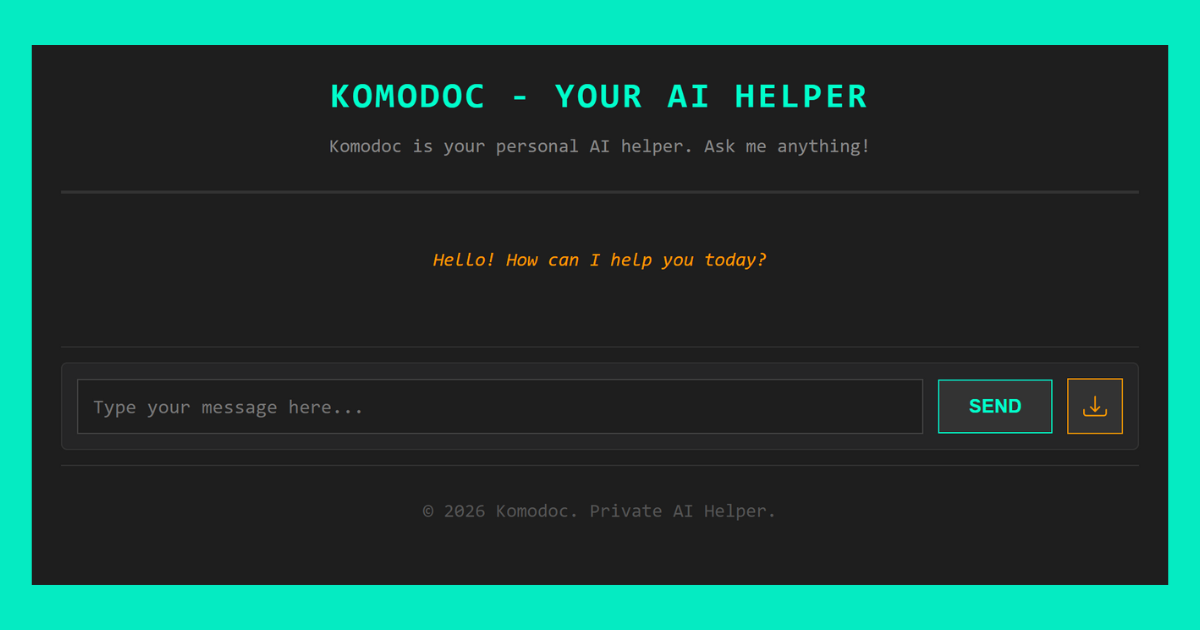
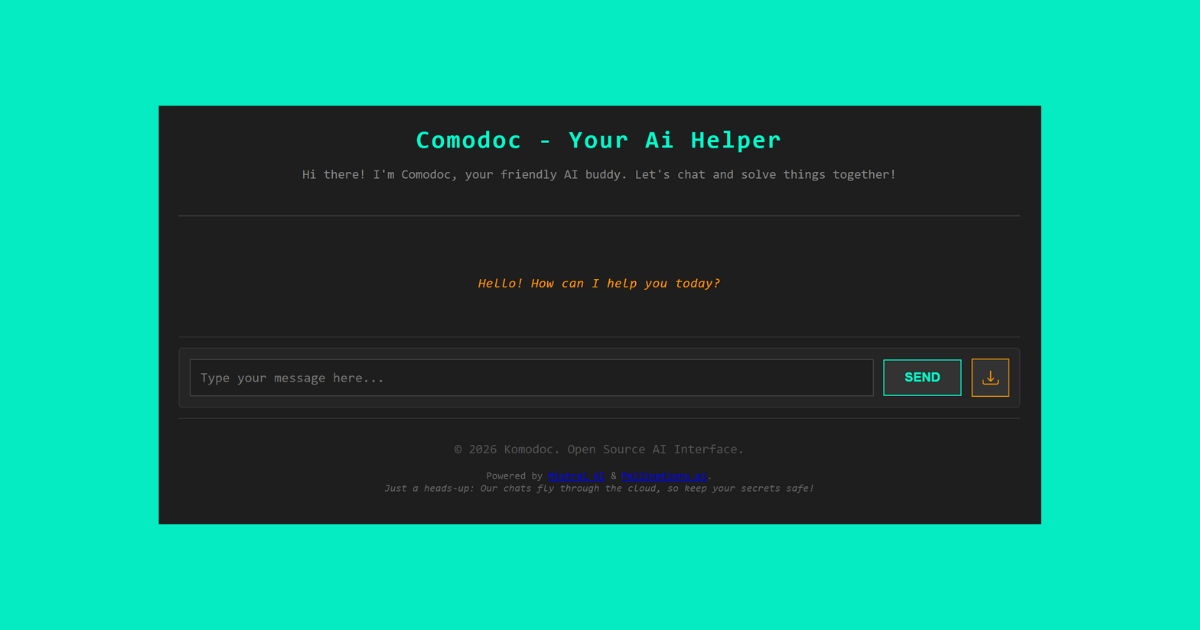
Add files via upload

diff --git a/server.js b/server.js
@@ -2,7 +2,8 @@ const http = require('http');
 const fs = require('fs');
 const path = require('path');
 
-const PORT = 3001;
+// Use process.env.PORT for deployment (Heroku/Render/Railway) or fallback to 2020 locally
+const PORT = process.env.PORT || 2020;
 
 const server = http.createServer(async (req, res) => {
     console.log(`${req.method} ${req.url}`);
@@ -48,6 +49,14 @@ const server = http.createServer(async (req, res) => {
                 res.end(content);
             }
         });
+    } else if (req.url === '/favicon.svg') {
+        const svgContent = `
+<svg xmlns="http://www.w3.org/2000/svg" viewBox="0 0 100 100">
+  <circle cx="50" cy="50" r="45" fill="#1e1e1e" stroke="#00ffcc" stroke-width="5"/>
+  <text x="50" y="65" font-family="Arial, sans-serif" font-size="60" font-weight="bold" fill="#00ffcc" text-anchor="middle">C</text>
+</svg>`;
+        res.writeHead(200, { 'Content-Type': 'image/svg+xml' });
+        res.end(svgContent);
     } else if (req.url === '/chat' && req.method === 'POST') {
         let body = '';
         req.on('data', chunk => {
@@ -55,7 +64,42 @@ const server = http.createServer(async (req, res) => {
         });
         req.on('end', async () => {
             try {
-                const { message } = JSON.parse(body);
+                let { message } = JSON.parse(body);
+
+                // --- ADVANCED PII SAFETY FILTER (COMPREHENSIVE) ---
+                const originalMessage = message;
+
+                // A. Direct Identifiers
+                // 1. Email Addresses
+                message = message.replace(/\b[A-Za-z0-9._%+-]+@[A-Za-z0-9.-]+\.[A-Z|a-z]{2,}\b/g, '[EMAIL_REDACTED]');
+                
+                // 2. Phone Numbers (Indonesian & International formats)
+                // Covers: +62, 08xx, (xxx) xxx-xxxx
+                message = message.replace(/\b(\+62|08|62)\d{8,15}\b/g, '[PHONE_REDACTED]');
+                message = message.replace(/\b\d{3}[- .]?\d{3}[- .]?\d{4}\b/g, '[PHONE_REDACTED]');
+
+                // 3. Identification Numbers (NIK/KTP, Passport, Driver's License - Generic 16 digits)
+                message = message.replace(/\b\d{16}\b/g, '[ID_NUM_REDACTED]');
+                
+                // B. Sensitive PII (Financial)
+                // 1. Credit Card Numbers (Visa, Mastercard, etc. - 13-19 digits, often grouped)
+                message = message.replace(/\b(?:\d{4}[- ]?){3}\d{4}\b/g, '[CREDIT_CARD_REDACTED]');
+
+                // C. Indirect Identifiers (Dates & Locations)
+                // 1. Dates of Birth (Formats: DD-MM-YYYY, YYYY-MM-DD, DD/MM/YYYY)
+                // Simple regex to catch common date patterns
+                message = message.replace(/\b\d{1,2}[-/]\d{1,2}[-/]\d{4}\b/g, '[DATE_REDACTED]');
+                message = message.replace(/\b\d{4}[-/]\d{1,2}[-/]\d{1,2}\b/g, '[DATE_REDACTED]');
+
+                // 2. ZIP Codes (5 digits) - Context aware is hard, but we can catch 5 digit isolated numbers
+                // NOTE: This might be too aggressive for general numbers, so we limit to specific patterns if needed.
+                // For now, we'll assume 5 digit numbers at the end of a string or after "Zip" might be sensitive.
+                message = message.replace(/\b(?:Zip|Code|Pos)\s*:?\s*(\d{5})\b/gi, 'ZIP [REDACTED]');
+
+                if (message !== originalMessage) {
+                    console.log('🛡 Security: PII data redacted from user message.');
+                }
+                // ---------------------------------------------------
                 
                 // Call Pollinations AI with Mistral
                 const response = await fetch('https://text.pollinations.ai/', {

diff --git a/index.html b/index.html
@@ -5,16 +5,17 @@
         <meta property="og:description" content="Your personal AI helper. Ask me anything!">
         <meta property="og:type" content="website">
         <meta property="og:url" content="https://github.com/deopsdev/comodoc.ai">
-        <meta property="og:image" content="ogimage">
+        <meta property="og:image" content="ogimage.png">
         <meta charset="UTF-8">
         <meta name="viewport" content="width=device-width, initial-scale=1.0">
         <title>Komodoc - AI Helper</title>
+        <link rel="icon" type="image/svg+xml" href="favicon.svg">
         <link rel="stylesheet" href="style.css">
     </head>
     <body>
-        <header>
-        <h1>Komodoc - Your AI Helper</h1>
-        <p>Komodoc is your personal AI helper. Ask me anything!</p>
+        <header style="text-align: center;">
+        <h1>Comodoc - Your Ai Helper</h1>
+        <p>Hi there! I'm Comodoc, your friendly AI buddy. Let's chat and solve things together!</p>
         </header>
             <div id="chat-container">
                 <div id="chat-messages">
@@ -32,8 +33,13 @@
                     </button>
                 </div>
             </div>
-            <footer>
-                <p>&copy; 2026 Komodoc. Private AI Helper.</p>
+            <footer style="text-align: center;">
+                <p>&copy; 2026 Komodoc. Open Source AI Interface.</p>
+                <div style="font-size: 0.8em; color: #666; margin-top: 5px;">
+                    Powered by <a href="https://mistral.ai" target="_blank">Mistral AI</a> & <a href="https://pollinations.ai" target="_blank">Pollinations.ai</a>.
+                    <br>
+                    <em>Just a heads-up: Our chats fly through the cloud, so keep your secrets safe!</em>
+                </div>
             </footer>
         <script src="script.js"></script>
     </body>

diff --git a/style.css b/style.css
@@ -20,13 +20,12 @@ body {
 header {
     text-align: center;
     border-bottom: 2px solid #333; /* Industrial divider */
-    padding-bottom: 10px;
-    margin-bottom: 10px;
+    padding-bottom: 20px;
+    margin-bottom: 20px;
 }
 
 h1 {
     color: #00ffcc; /* Cyan indicator light */
-    text-transform: uppercase;
     letter-spacing: 2px;
     font-size: 1.5em;
     margin: 0;
@@ -151,13 +150,22 @@ button:hover {
 
 /* Messages */
 .message {
-    margin: 5px 0;
-    padding: 10px 15px;
+    margin: 10px 0;
+    padding: 15px 20px;
     border-radius: 0; /* Squared corners for machine look */
     max-width: 80%;
     word-wrap: break-word;
-    font-size: 0.95em;
-    line-height: 1.5;
+    font-size: 1em;
+    line-height: 1.8; /* Increased for better readability */
+    letter-spacing: 0.5px; /* Slight spacing for clarity */
+}
+
+.message p {
+    margin-bottom: 15px; /* Add space between paragraphs */
+}
+
+.message p:last-child {
+    margin-bottom: 0;
 }
 
 .message.user {

diff --git a/script.js b/script.js
@@ -7,7 +7,15 @@ document.addEventListener('DOMContentLoaded', () => {
     function addMessage(text, sender) {
         const messageDiv = document.createElement('div');
         messageDiv.classList.add('message', sender);
-        messageDiv.textContent = text;
+        
+        // Convert newlines to line breaks for better readability
+        // Also handling basic Markdown-like paragraphs
+        const formattedText = text.split('\n').map(line => {
+            if (line.trim() === '') return '<br>'; // Preserve empty lines as spacing
+            return `<p>${line}</p>`; // Wrap lines in paragraphs
+        }).join('');
+        
+        messageDiv.innerHTML = formattedText; // Use innerHTML to render tags
         chatMessages.appendChild(messageDiv);
         
         // Scroll to the bottom
